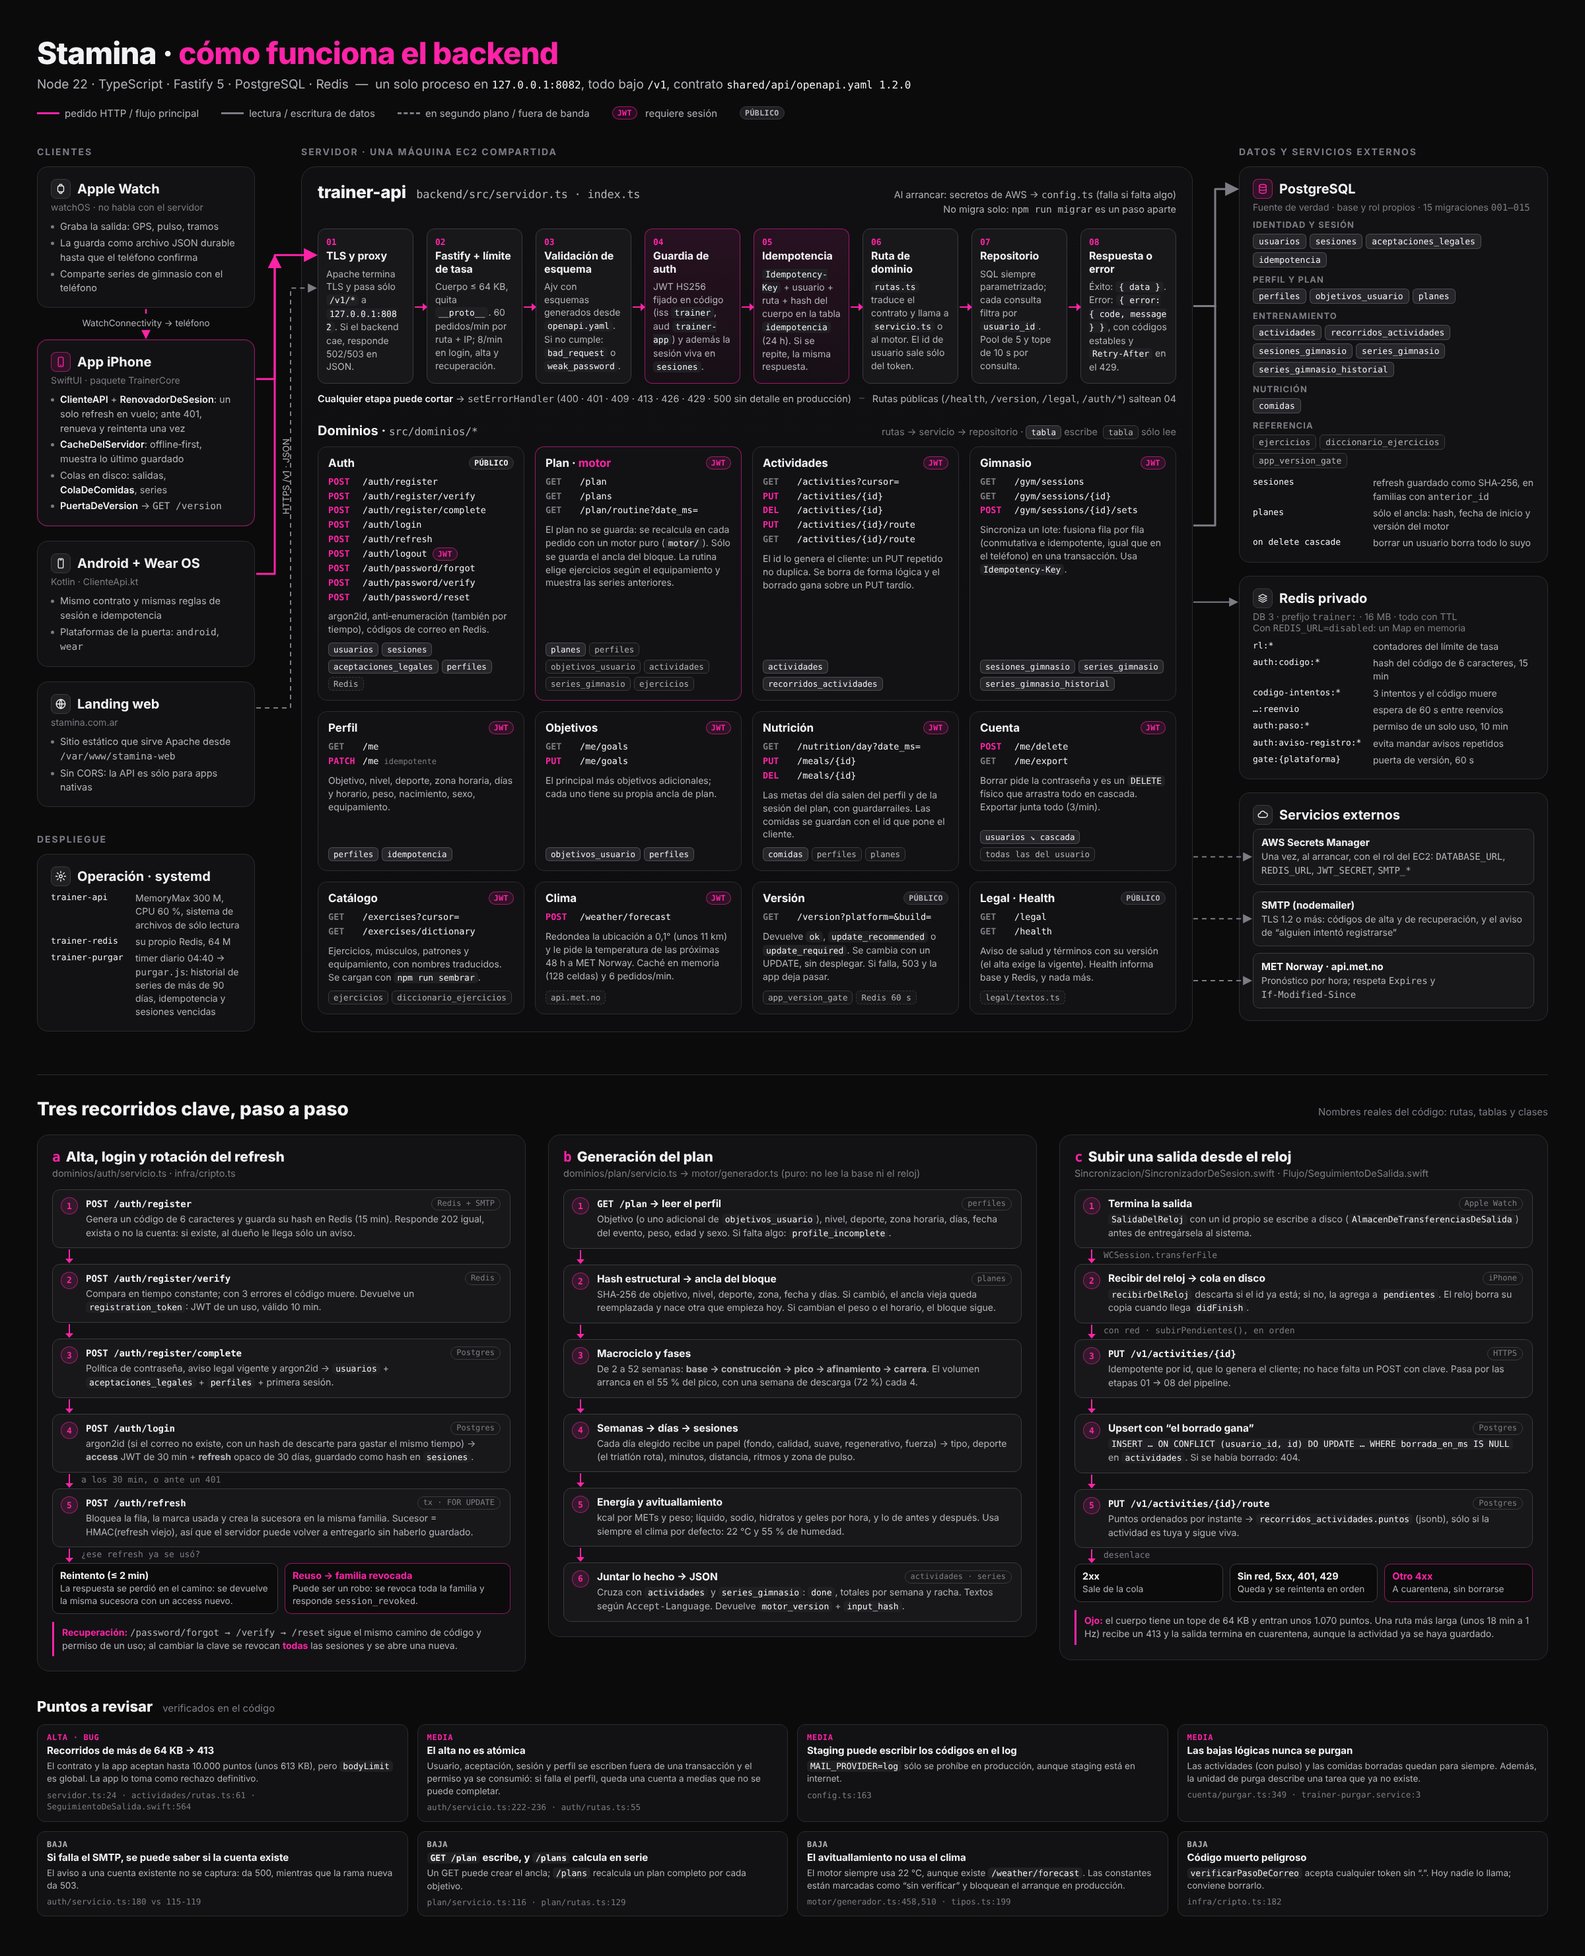
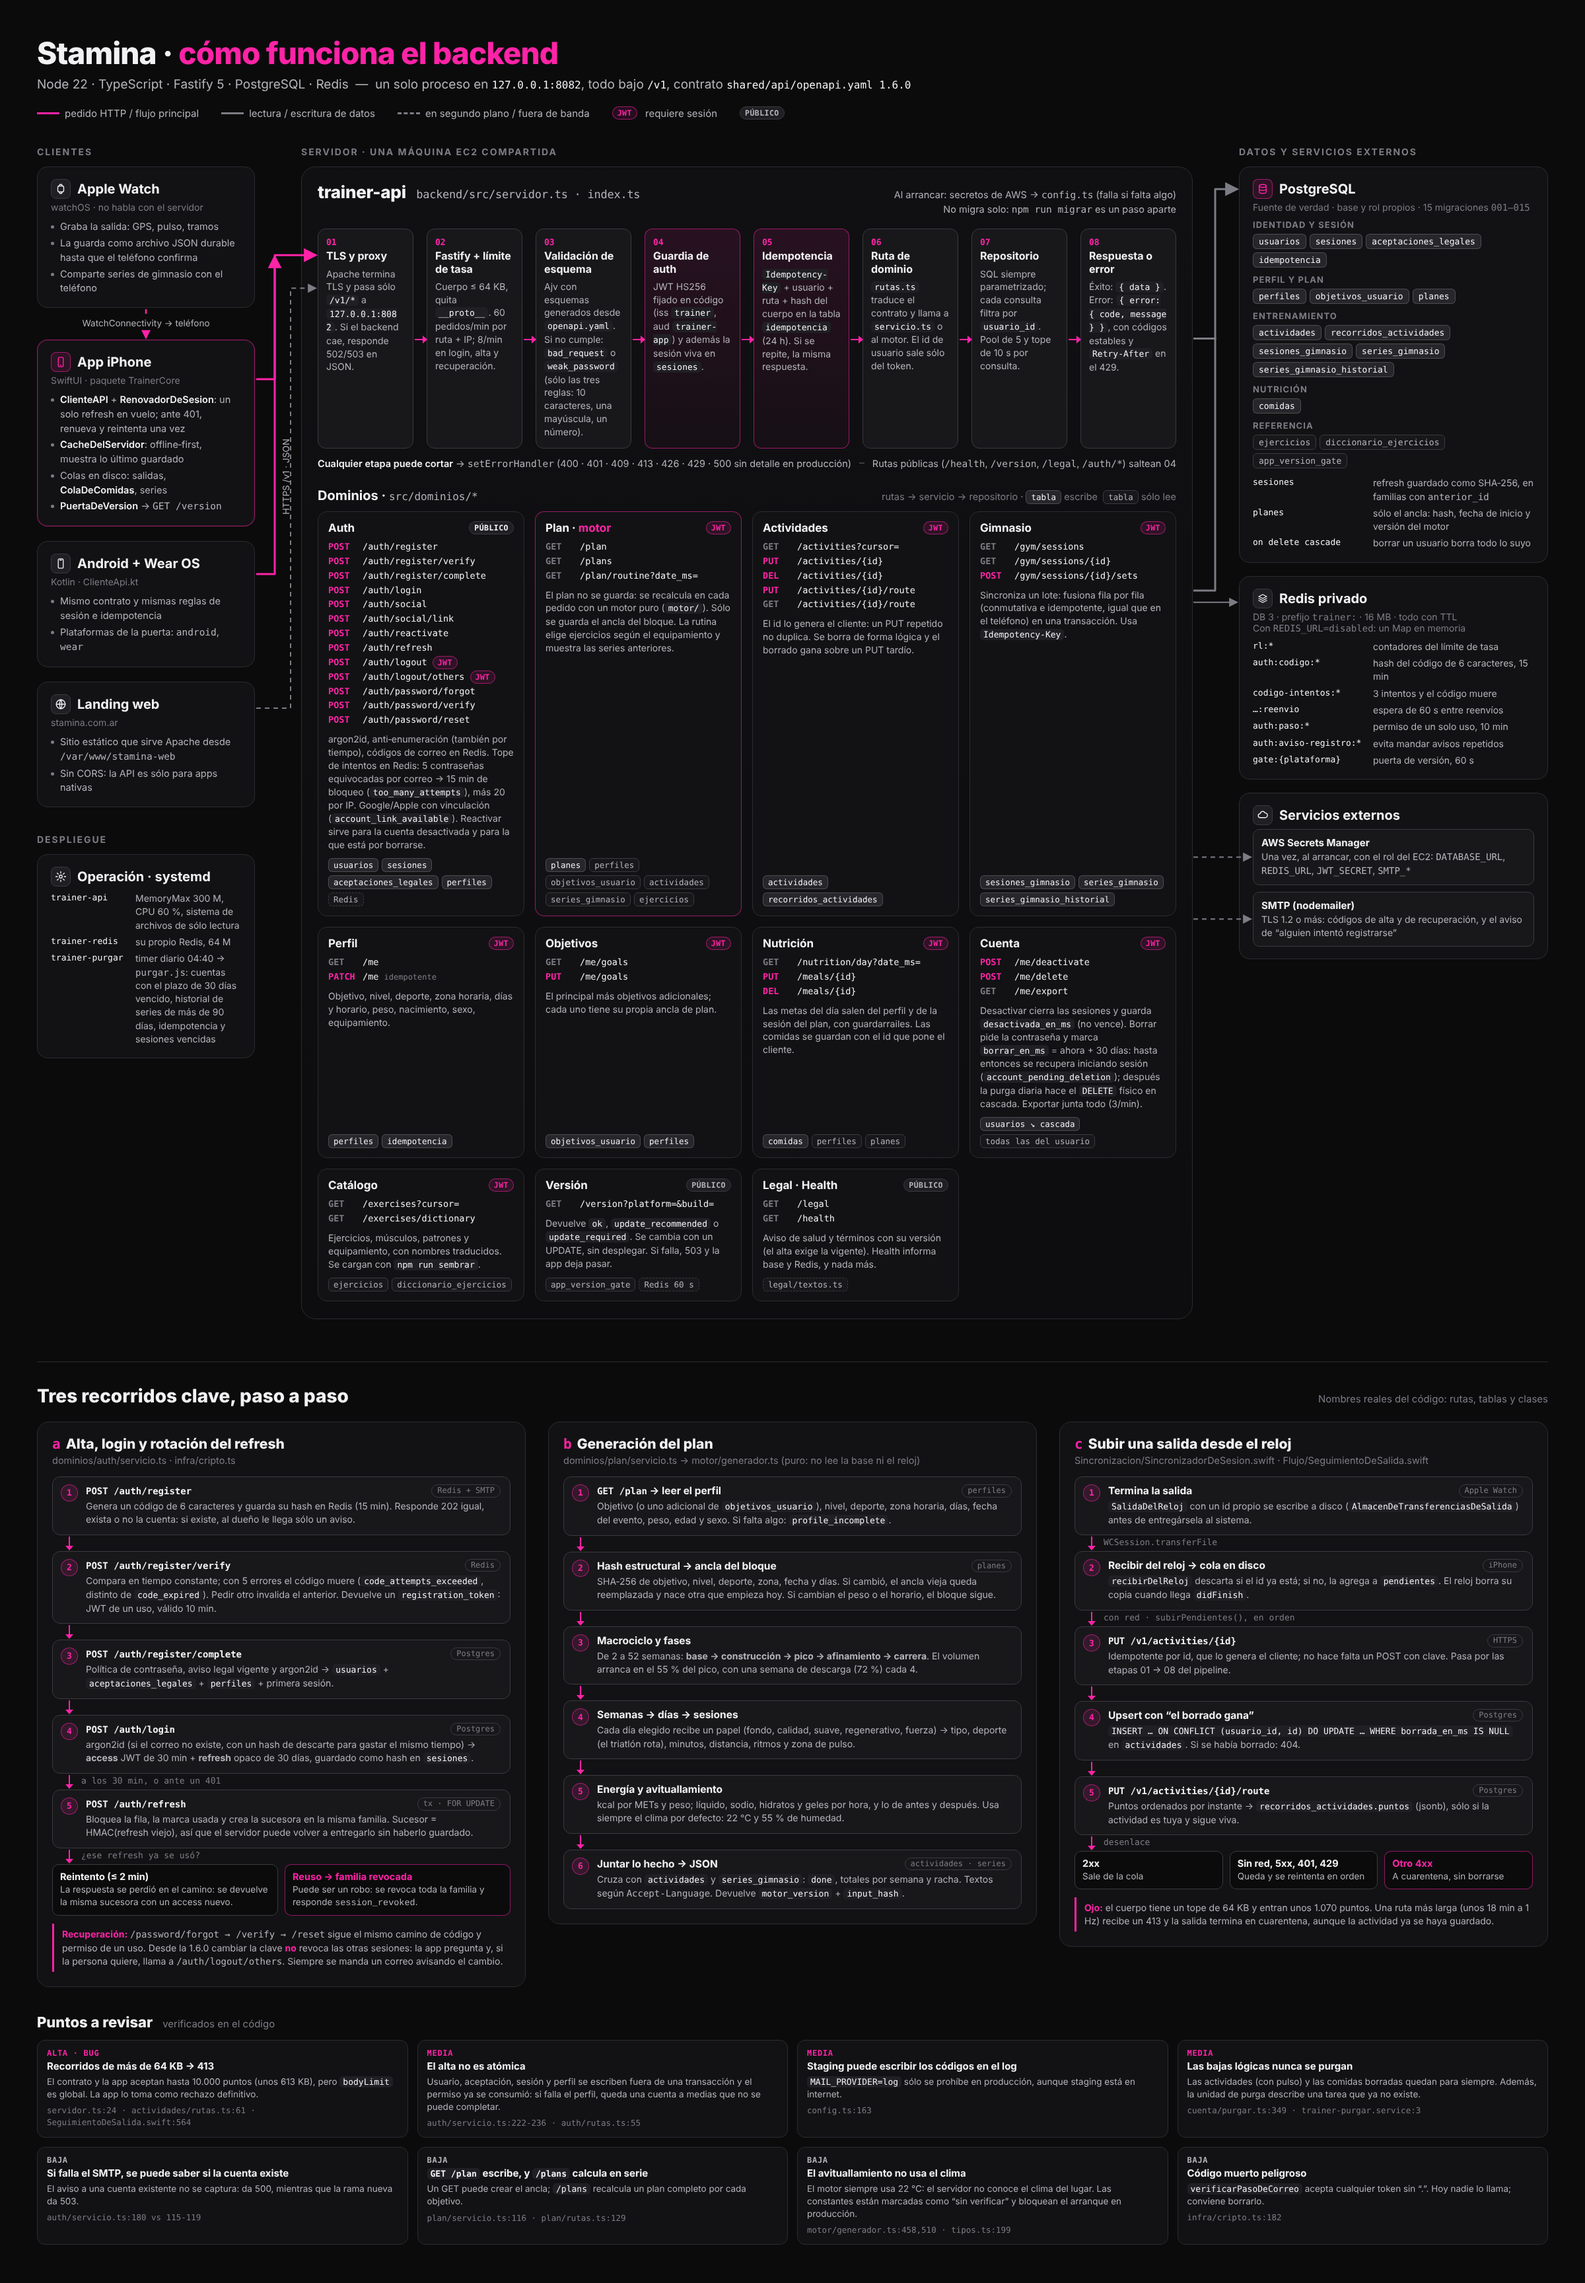
ios: "solo" sin tilde, objetivos 5 km y 10 km sin la distancia repetida; diagrama del backend al contrato 1.6.0
- Textos en español: "sólo" → "solo" (Deporte, Ajustes, apto, explicación de zona 4, reloj).
- Objetivo: "5 km" y "10 km" ya no repiten la distancia a la derecha; se borran
  signup.goal.c5k.detail y signup.goal.c10k.detail.
- docs/diagrama-backend-stamina: endpoints 1.6.0 (social, link, reactivate,
  logout/others, me/deactivate), tope de intentos, borrado con 30 días de gracia,
  purga de cuentas, cambiar la contraseña ya no revoca sesiones.

Claude-Session: https://claude.ai/code/session_01MWUmKz3Fgo587Fb3aJ7ZUS

diff --git a/docs/diagrama-backend-stamina.html b/docs/diagrama-backend-stamina.html
@@ -176,7 +176,7 @@
 <header>
   <div>
     <div class="titulo">Stamina · <b>cómo funciona el backend</b></div>
-    <div class="subtitulo">Node 22 · TypeScript · Fastify 5 · PostgreSQL · Redis &nbsp;—&nbsp; un solo proceso en <span class="mono">127.0.0.1:8082</span>, todo bajo <span class="mono">/v1</span>, contrato <span class="mono">shared/api/openapi.yaml 1.2.0</span></div>
+    <div class="subtitulo">Node 22 · TypeScript · Fastify 5 · PostgreSQL · Redis &nbsp;—&nbsp; un solo proceso en <span class="mono">127.0.0.1:8082</span>, todo bajo <span class="mono">/v1</span>, contrato <span class="mono">shared/api/openapi.yaml 1.6.0</span></div>
   </div>
   <div class="leyenda">
     <span><i class="lin"></i>pedido HTTP / flujo principal</span>
@@ -234,7 +234,7 @@
         <div class="kv" style="grid-template-columns:118px 1fr">
           <span class="k">trainer-api</span><span>MemoryMax 300 M, CPU 60 %, sistema de archivos de sólo lectura</span>
           <span class="k">trainer-redis</span><span>su propio Redis, 64 M</span>
-          <span class="k" id="k-purga">trainer-purgar</span><span>timer diario 04:40 → <span class="mono">purgar.js</span>: historial de series de más de 90 días, idempotencia y sesiones vencidas</span>
+          <span class="k" id="k-purga">trainer-purgar</span><span>timer diario 04:40 → <span class="mono">purgar.js</span>: cuentas con el plazo de 30 días vencido, historial de series de más de 90 días, idempotencia y sesiones vencidas</span>
         </div>
       </div>
     </div>
@@ -252,7 +252,7 @@
       <div class="pipeline" id="pipeline">
         <div class="etapa" id="e1"><div class="n">01</div><h4>TLS y proxy</h4><p>Apache termina TLS y pasa sólo <code>/v1/*</code> a <code>127.0.0.1:8082</code>. Si el backend cae, responde 502/503 en JSON.</p></div>
         <div class="etapa" id="e2"><div class="n">02</div><h4>Fastify + límite de tasa</h4><p>Cuerpo ≤ 64 KB, quita <code>__proto__</code>. 60 pedidos/min por ruta + IP; 8/min en login, alta y recuperación.</p></div>
-        <div class="etapa" id="e3"><div class="n">03</div><h4>Validación de esquema</h4><p>Ajv con esquemas generados desde <code>openapi.yaml</code>. Si no cumple: <code>bad_request</code> o <code>weak_password</code>.</p></div>
+        <div class="etapa" id="e3"><div class="n">03</div><h4>Validación de esquema</h4><p>Ajv con esquemas generados desde <code>openapi.yaml</code>. Si no cumple: <code>bad_request</code> o <code>weak_password</code> (sólo las tres reglas: 10 caracteres, una mayúscula, un número).</p></div>
         <div class="etapa clave" id="e4"><div class="n">04</div><h4>Guardia de auth</h4><p>JWT HS256 fijado en código (iss <code>trainer</code>, aud <code>trainer-app</code>) y además la sesión viva en <code>sesiones</code>.</p></div>
         <div class="etapa clave" id="e5"><div class="n">05</div><h4>Idempotencia</h4><p><code>Idempotency-Key</code> + usuario + ruta + hash del cuerpo en la tabla <code>idempotencia</code> (24 h). Si se repite, la misma respuesta.</p></div>
         <div class="etapa" id="e6"><div class="n">06</div><h4>Ruta de dominio</h4><p><code>rutas.ts</code> traduce el contrato y llama a <code>servicio.ts</code> o al motor. El id de usuario sale sólo del token.</p></div>
@@ -273,12 +273,16 @@
           <div class="ep"><span class="m w">POST</span>/auth/register/verify</div>
           <div class="ep"><span class="m w">POST</span>/auth/register/complete</div>
           <div class="ep"><span class="m w">POST</span>/auth/login</div>
+          <div class="ep"><span class="m w">POST</span>/auth/social</div>
+          <div class="ep"><span class="m w">POST</span>/auth/social/link</div>
+          <div class="ep"><span class="m w">POST</span>/auth/reactivate</div>
           <div class="ep"><span class="m w">POST</span>/auth/refresh</div>
           <div class="ep"><span class="m w">POST</span>/auth/logout <span class="badge jwt">JWT</span></div>
+          <div class="ep"><span class="m w">POST</span>/auth/logout/others <span class="badge jwt">JWT</span></div>
           <div class="ep"><span class="m w">POST</span>/auth/password/forgot</div>
           <div class="ep"><span class="m w">POST</span>/auth/password/verify</div>
           <div class="ep"><span class="m w">POST</span>/auth/password/reset</div>
-          <div class="desc">argon2id, anti‑enumeración (también por tiempo), códigos de correo en Redis.</div>
+          <div class="desc">argon2id, anti‑enumeración (también por tiempo), códigos de correo en Redis. Tope de intentos en Redis: 5 contraseñas equivocadas por correo → 15 min de bloqueo (<code>too_many_attempts</code>), más 20 por IP. Google/Apple con vinculación (<code>account_link_available</code>). Reactivar sirve para la cuenta desactivada y para la que está por borrarse.</div>
           <div class="tablas"><span class="tabla r">usuarios</span><span class="tabla r">sesiones</span><span class="tabla r">aceptaciones_legales</span><span class="tabla r">perfiles</span><span class="tabla x">Redis</span></div>
         </div>
 
@@ -338,9 +342,10 @@
 
         <div class="dom" id="d-cuenta">
           <div class="cab"><h5>Cuenta</h5><span class="badge jwt">JWT</span></div>
+          <div class="ep"><span class="m w">POST</span>/me/deactivate</div>
           <div class="ep"><span class="m w">POST</span>/me/delete</div>
           <div class="ep"><span class="m">GET</span>/me/export</div>
-          <div class="desc">Borrar pide la contraseña y es un <code>DELETE</code> físico que arrastra todo en cascada. Exportar junta todo (3/min).</div>
+          <div class="desc">Desactivar cierra las sesiones y guarda <code>desactivada_en_ms</code> (no vence). Borrar pide la contraseña y marca <code>borrar_en_ms</code> = ahora + 30 días: hasta entonces se recupera iniciando sesión (<code>account_pending_deletion</code>); después la purga diaria hace el <code>DELETE</code> físico en cascada. Exportar junta todo (3/min).</div>
           <div class="tablas"><span class="tabla r">usuarios ↘ cascada</span><span class="tabla">todas las del usuario</span></div>
         </div>
 
@@ -429,7 +434,7 @@
       <div class="pasos">
         <div class="paso donde" ><div class="num">1</div><div class="q" data-actor="Redis + SMTP"><span class="mono">POST /auth/register</span></div><div class="d">Genera un código de 6 caracteres y guarda su hash en Redis (15 min). Responde 202 igual, exista o no la cuenta: si existe, al dueño le llega sólo un aviso.</div></div>
         <div class="baja"></div>
-        <div class="paso donde"><div class="num">2</div><div class="q" data-actor="Redis"><span class="mono">POST /auth/register/verify</span></div><div class="d">Compara en tiempo constante; con 3 errores el código muere. Devuelve un <code>registration_token</code>: JWT de un uso, válido 10 min.</div></div>
+        <div class="paso donde"><div class="num">2</div><div class="q" data-actor="Redis"><span class="mono">POST /auth/register/verify</span></div><div class="d">Compara en tiempo constante; con 5 errores el código muere (<code>code_attempts_exceeded</code>, distinto de <code>code_expired</code>). Pedir otro invalida el anterior. Devuelve un <code>registration_token</code>: JWT de un uso, válido 10 min.</div></div>
         <div class="baja"></div>
         <div class="paso donde"><div class="num">3</div><div class="q" data-actor="Postgres"><span class="mono">POST /auth/register/complete</span></div><div class="d">Política de contraseña, aviso legal vigente y argon2id → <code>usuarios</code> + <code>aceptaciones_legales</code> + <code>perfiles</code> + primera sesión.</div></div>
         <div class="baja"></div>
@@ -441,7 +446,7 @@
           <div class="hoja ok"><b>Reintento (≤ 2 min)</b><span>La respuesta se perdió en el camino: se devuelve la misma sucesora con un access nuevo.</span></div>
           <div class="hoja mal"><b>Reuso → familia revocada</b><span>Puede ser un robo: se revoca toda la familia y responde <code>session_revoked</code>.</span></div>
         </div>
-        <div class="alerta"><b>Recuperación:</b> <span class="mono">/password/forgot → /verify → /reset</span> sigue el mismo camino de código y permiso de un uso; al cambiar la clave se revocan <b>todas</b> las sesiones y se abre una nueva.</div>
+        <div class="alerta"><b>Recuperación:</b> <span class="mono">/password/forgot → /verify → /reset</span> sigue el mismo camino de código y permiso de un uso. Desde la 1.6.0 cambiar la clave <b>no</b> revoca las otras sesiones: la app pregunta y, si la persona quiere, llama a <span class="mono">/auth/logout/others</span>. Siempre se manda un correo avisando el cambio.</div>
       </div>
     </div>
 

diff --git a/ios/Trainer/Trainer/Recursos/TextosGenerados.swift b/ios/Trainer/Trainer/Recursos/TextosGenerados.swift
@@ -9,7 +9,7 @@
 // números y unidades se formatean con el locale del sistema. Esto resuelve lo
 // primero; lo segundo es de quien presenta el dato.
 //
-// 846 claves · idioma de autoría: en
+// 844 claves · idioma de autoría: en
 // =============================================================================
 
 import Foundation
@@ -2253,14 +2253,8 @@ enum Textos {
     /// 10 km
     static var signupGoalC10k: String { String(localized: "signup.goal.c10k") }
 
-    /// 10 km
-    static var signupGoalC10kDetail: String { String(localized: "signup.goal.c10k.detail") }
-
     /// 5 km
     static var signupGoalC5k: String { String(localized: "signup.goal.c5k") }
-
-    /// 5 km
-    static var signupGoalC5kDetail: String { String(localized: "signup.goal.c5k.detail") }
 
     /// Choose your goal
     static var signupGoalChoose: String { String(localized: "signup.goal.choose") }

diff --git a/ios/Trainer/Trainer/Pantallas/Registro/RegistroEntrenamientoViews.swift b/ios/Trainer/Trainer/Pantallas/Registro/RegistroEntrenamientoViews.swift
@@ -103,8 +103,8 @@ struct RegObjetivoView: View {
 
     private var objetivos: [(Objetivo, String, String)] {
         let todos: [(Objetivo, String, String)] = [
-            (.c5k, Textos.signupGoalC5k, Textos.signupGoalC5kDetail),
-            (.c10k, Textos.signupGoalC10k, Textos.signupGoalC10kDetail),
+            (.c5k, Textos.signupGoalC5k, ""),
+            (.c10k, Textos.signupGoalC10k, ""),
             (.mediaMaraton, Textos.signupGoalHalfMarathon, Textos.signupGoalHalfMarathonDetail),
             (.maraton, Textos.signupGoalMarathon, Textos.signupGoalMarathonDetail),
             (.trailMontana, Textos.signupGoalMountainTrail, Textos.signupGoalMountainTrailDetail),
